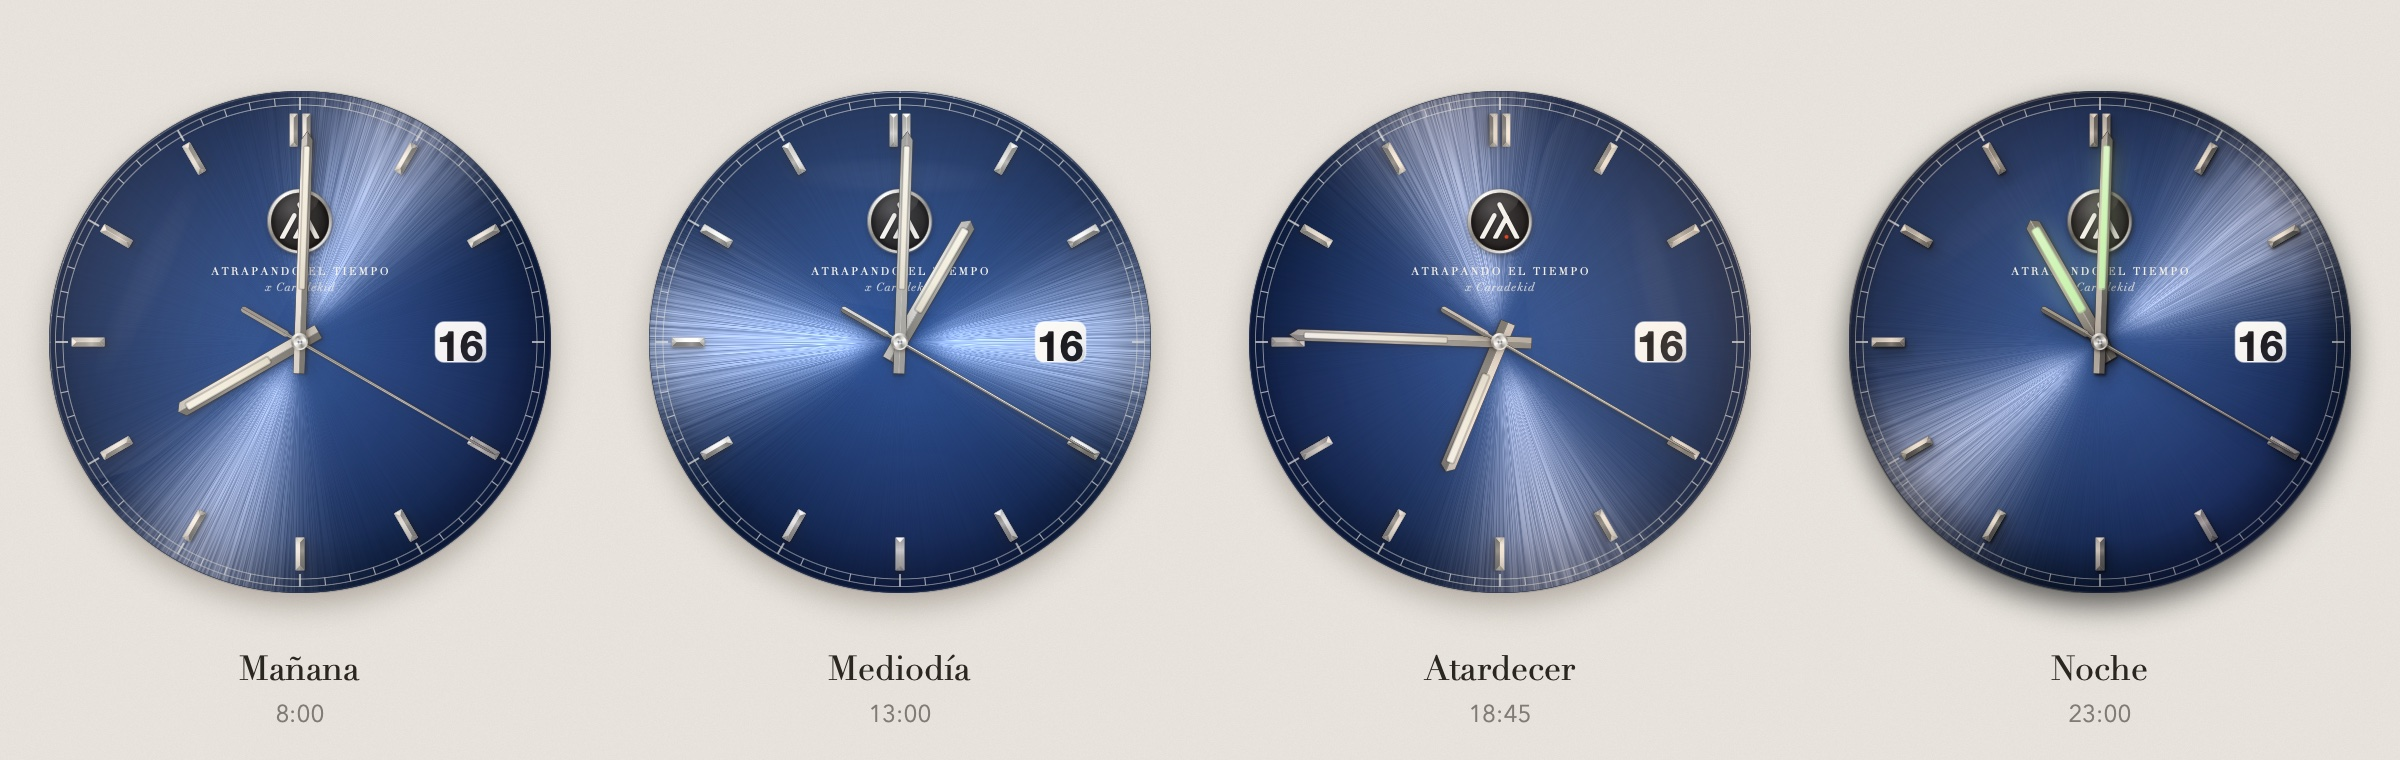
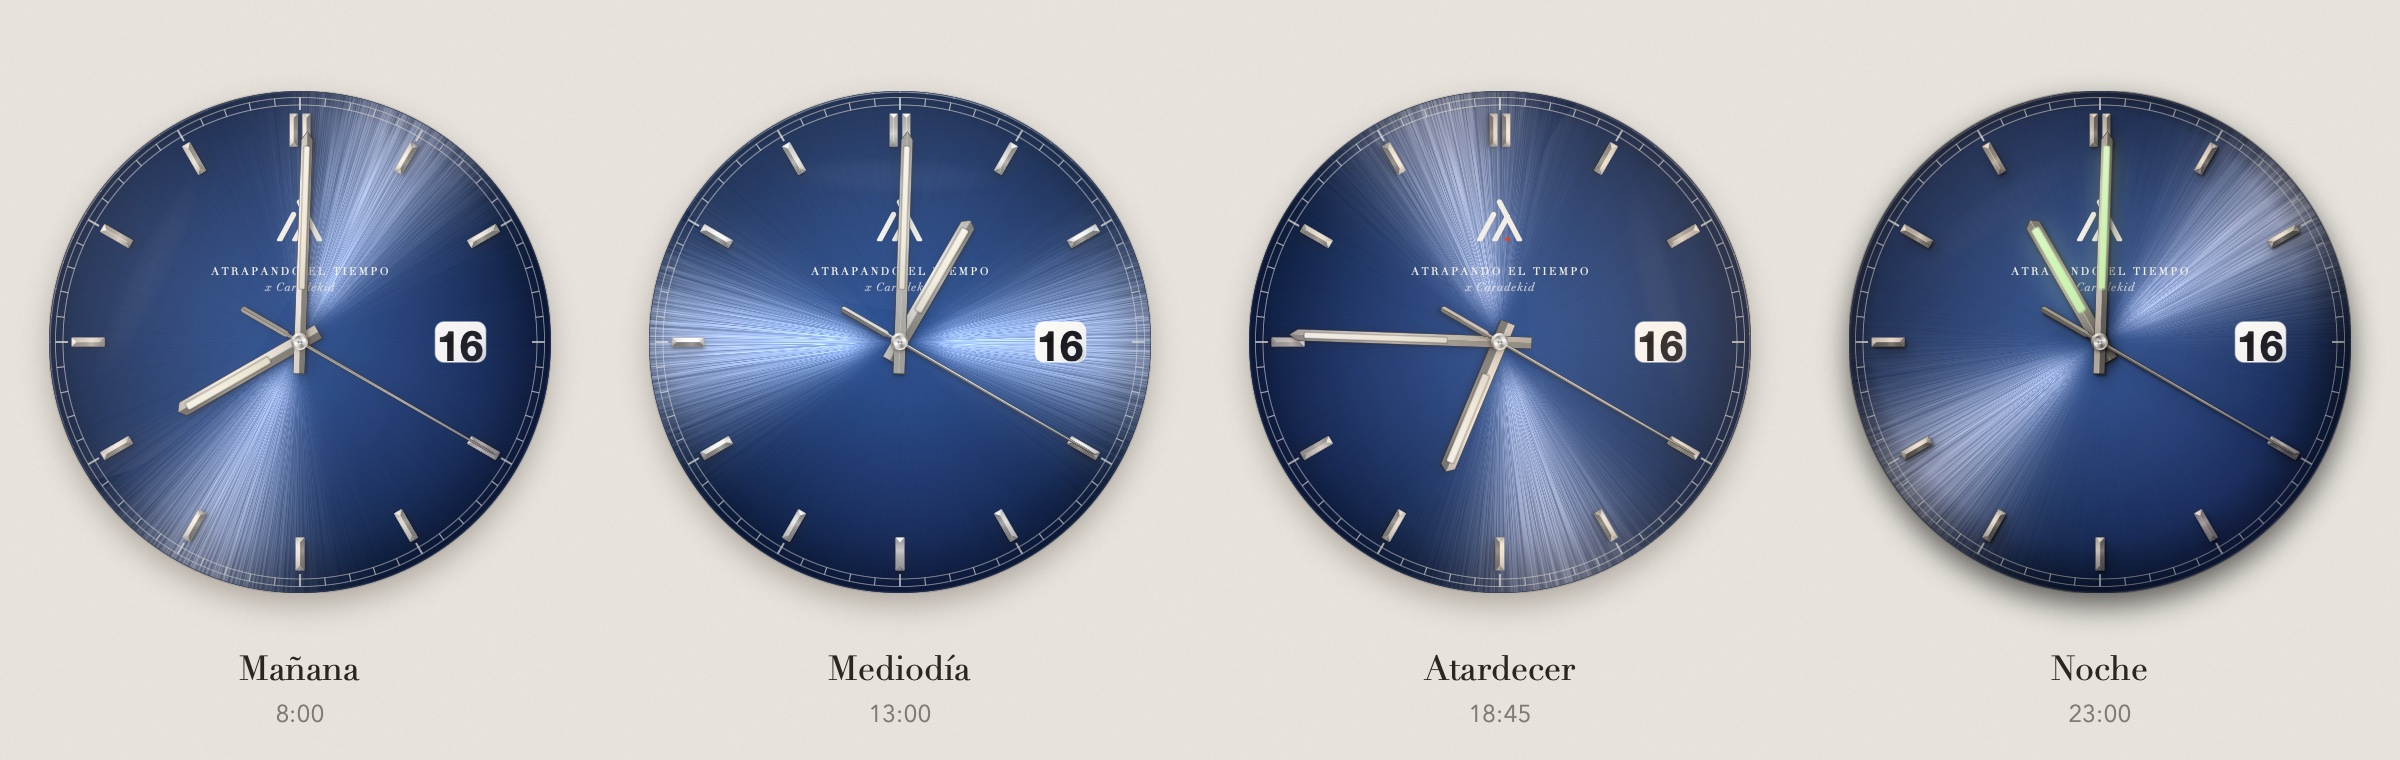
README images and Lively thumbnail use the printed AET emblem

diff --git a/docs/poster.html b/docs/poster.html
@@ -19,7 +19,7 @@
     const SERIF = '"Didot","Bodoni 72",serif';
     const SANS = '"Avenir Next","Helvetica Neue",sans-serif';
     const at = (h, m, s) => { const t = new Date(); t.setHours(h, m, s || 31, 0); return t; };
-    const cfgOf = (model, extra) => Object.assign({}, E.DEFAULTS, E.MODELS[model].defaults, { model, light: 'fixed' }, extra || {});
+    const cfgOf = (model, extra) => Object.assign({}, E.DEFAULTS, E.MODELS[model].defaults, { model, light: 'fixed', emblem: 'printed' }, extra || {});
     const canvas = (w, h) => { const c = document.createElement('canvas'); c.width = w; c.height = h; return c; };
     const png = (c) => c.toDataURL('image/png').split(',')[1];
 
